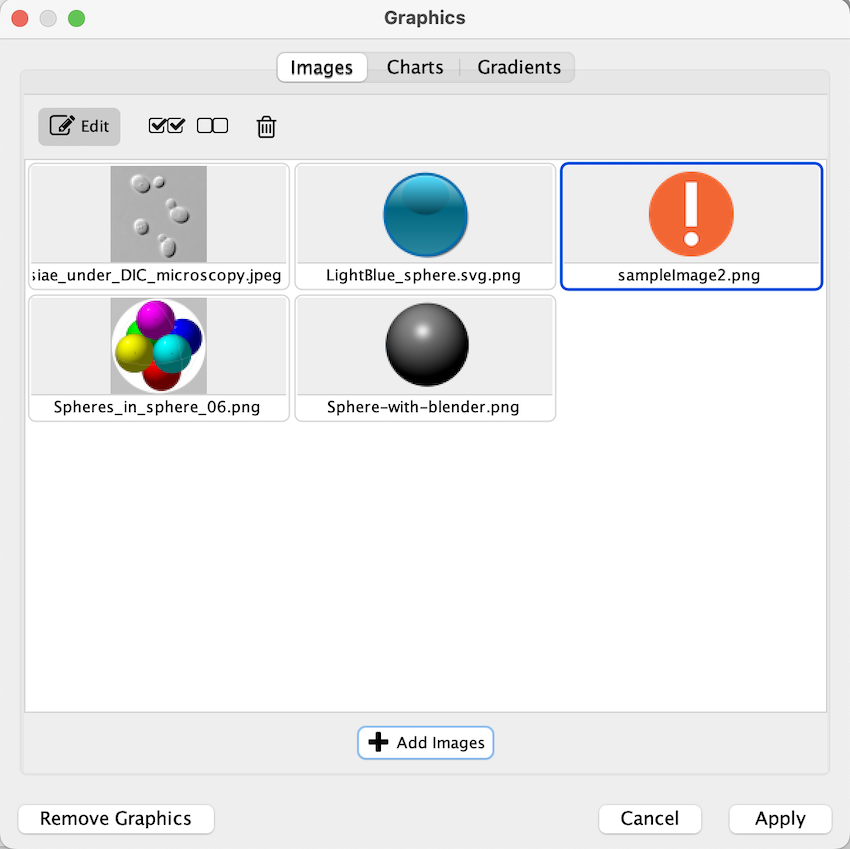
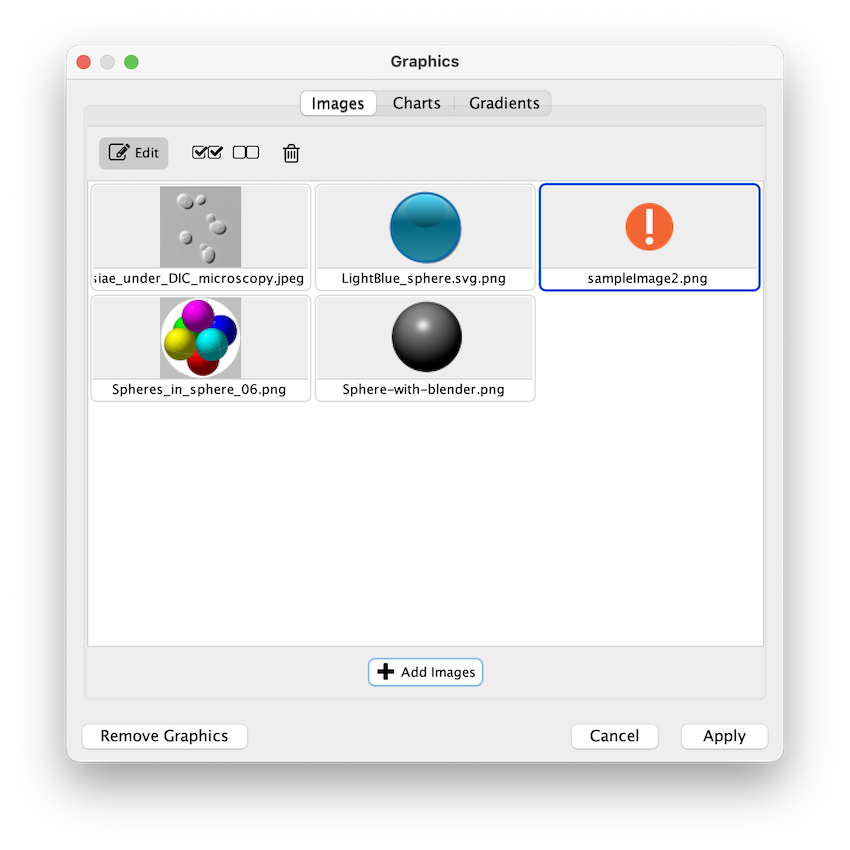
updated screenshots, text

diff --git a/docs/Styles.md b/docs/Styles.md
@@ -531,10 +531,10 @@ Image Manager...**:
 <a id="using_graphics_in_styles"> </a>
 ### Using Graphics in Styles
 
-![](_static/images/Styles/CustomGraphicsVizMapper.png)
+![](_static/images/Styles/CustomGraphicsVizMapper310.png)
 <br>
 <br>
-![](_static/images/Styles/CustomGraphicsNodes.png)
+![](_static/images/Styles/CustomGraphicsNodes310.png)
 
 Node graphics are used and defined like any other property, through the
 **Style** interface. There are nine **Image/Chart** properties.
@@ -875,12 +875,11 @@ assign up to nine images per node as a part of a style.
 10. Also change the edge **Width** to *6*. Now your network looks like
     the following:
 
-    ![](_static/images/Styles/CustomGraphicsNodes.png)
+    ![](_static/images/Styles/CustomGraphicsNodes310.png)
 
-11. Open the Image Manager under **View → Open Image Manager...**. Drag
-    and Drop this
+11. Open the Image Manager under **View → Open Image Manager...**. Download this icon 
     ![](_static/images/Styles/sampleImage2.png)
-    icon to the image list which automatically adds it to the manager.
+    and then add it to Image Manager by clicking the **Add Images** button and then selecting the downloaded icon.
 
     ![](_static/images/Styles/cgTutorial5_310.png)
     <br>
@@ -905,14 +904,14 @@ assign up to nine images per node as a part of a style.
     2**. Click its **Default Value** cell to move the position of the
     graphics to upper left.
 
-    ![](_static/images/Styles/cgTutorial6.png)
+    ![](_static/images/Styles/cgTutorial6_pos_310.png)
     <br>
 
     Now the important nodes in the network (nodes with high [betweenness
     centrality](http://en.wikipedia.org/wiki/Betweenness_centrality))
     are annotated with the icon:
 
-    ![](_static/images/Styles/CustomGraphicsNodes2.png)
+    ![](_static/images/Styles/CustomGraphicsNodes2_310.png)
 
 <a id="tutorial_6_creating_node_charts"> </a>
 ### Tutorial 6: Creating Node Charts
